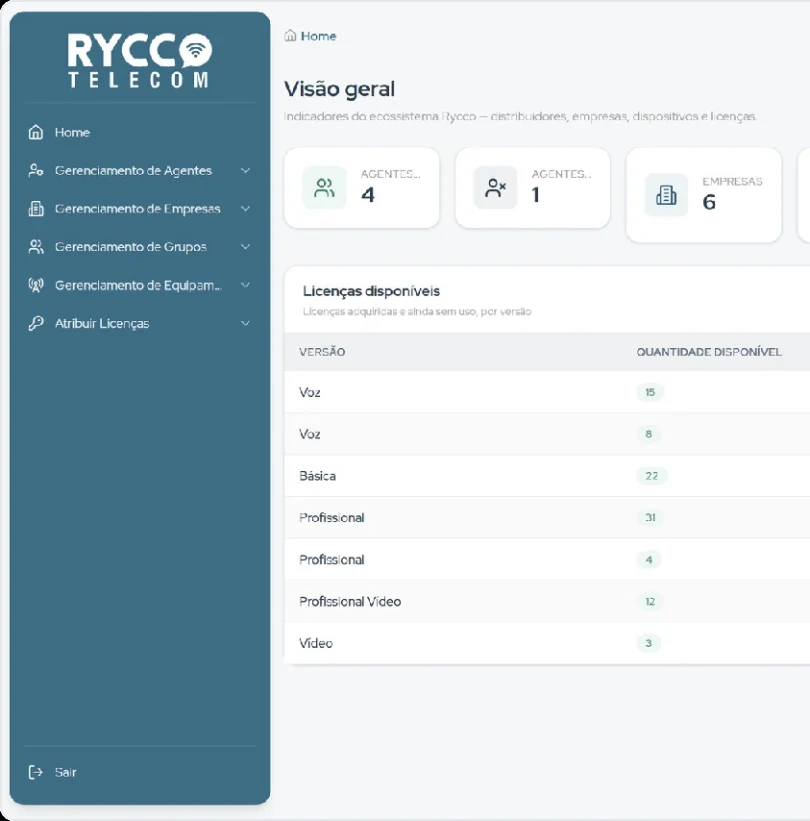
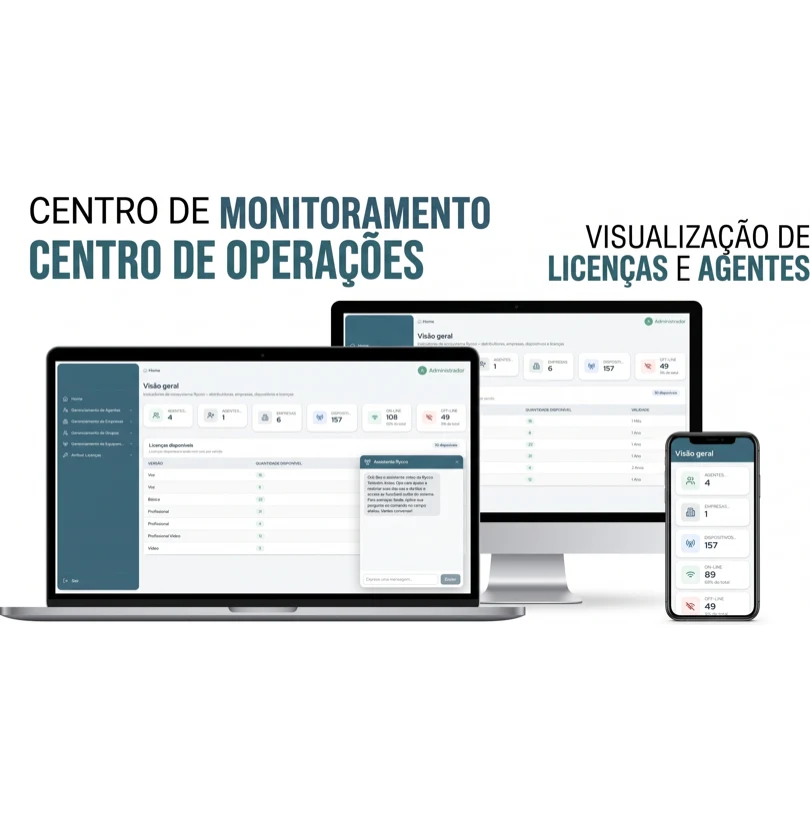
feat: nova print de OS e capa institucional do RyccoManager
A ordem de serviço passa a ser a captura enviada pelo autor: console
inteiro com o modal aberto, mostrando que o checklist tem campos tipados
— texto, número, escolha única e múltipla — com foto e vídeo obrigatórios.
A legenda acompanha o que a tela mostra.

A capa do RyccoManager passa a ser o mockup institucional. Como o banner
é 1.89:1 e a capa precisa ser 810x821 para o card ficar da mesma altura
dos outros, ele é centralizado sobre fundo branco, com as margens do
original aparadas antes para não ficar torto.

Corrige também uma distorção que já existia: as Screenshots eram forçadas
numa caixa fixa de 45vw x 59vh sem object-fit, então toda captura
aparecia esticada. Com object-contain elas mantêm a proporção. Vale para
os seis projetos, não só os da Rycco.

diff --git a/src/content/projects.js b/src/content/projects.js
@@ -67,7 +67,7 @@ export const projects = {
             { image: RyccoEmergencias, caption: "Emergências: SOS e alertas de câmera veicular empilhados sobre qualquer tela" },
             { image: RyccoCercas, caption: "Cercas eletrônicas: áreas desenhadas no mapa registram entradas e saídas" },
             { image: RyccoPatrulha, caption: "Patrulha: rotas, pontos no mapa e horários da ronda do dia" },
-            { image: RyccoOrdemServico, caption: "Ordens de serviço: trabalhos atribuídos a rádios, com progresso do checklist e validade" },
+            { image: RyccoOrdemServico, caption: "Ordens de serviço: checklist com campos de texto, número e escolha, com foto e vídeo obrigatórios" },
             { image: RyccoCameras, caption: "Histórico das câmeras veiculares: fadiga do motorista, uso de celular e colisão iminente" }
         ]
     },

diff --git a/src/components/ProjectsComponents/ProjectScreenshotsComponent.jsx b/src/components/ProjectsComponents/ProjectScreenshotsComponent.jsx
@@ -13,7 +13,7 @@ function ProjectScreenshotsComponent({ project }){
                         src={screenshot.image}
                         alt={screenshot.caption}
                         onClick={() => setSelectedImage(screenshot.image)}
-                        className="cursor-pointer p-4 md:w-[45vw] md:h-[59vh] m-auto mt-8 rounded-[32px]"
+                        className="cursor-pointer object-contain p-4 md:w-[45vw] md:h-[59vh] m-auto mt-8 rounded-[32px]"
                     />
 
                     <p className="text-white text-center mb-8 mt-2">
